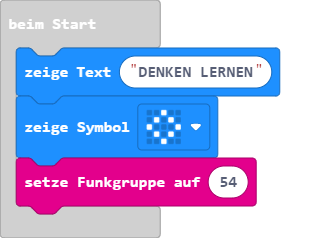
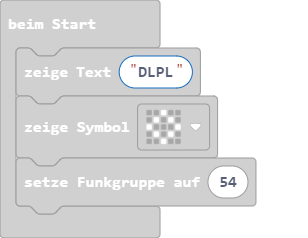
Aktualisiere main.blocks, main.ts

diff --git a/main.ts b/main.ts
@@ -44,6 +44,6 @@ input.onButtonPressed(Button.B, function () {
         . . . . .
         `)
 })
-basic.showString("DENKEN LERNEN")
+basic.showString("DLPL")
 basic.showIcon(IconNames.Diamond)
 radio.setGroup(54)
